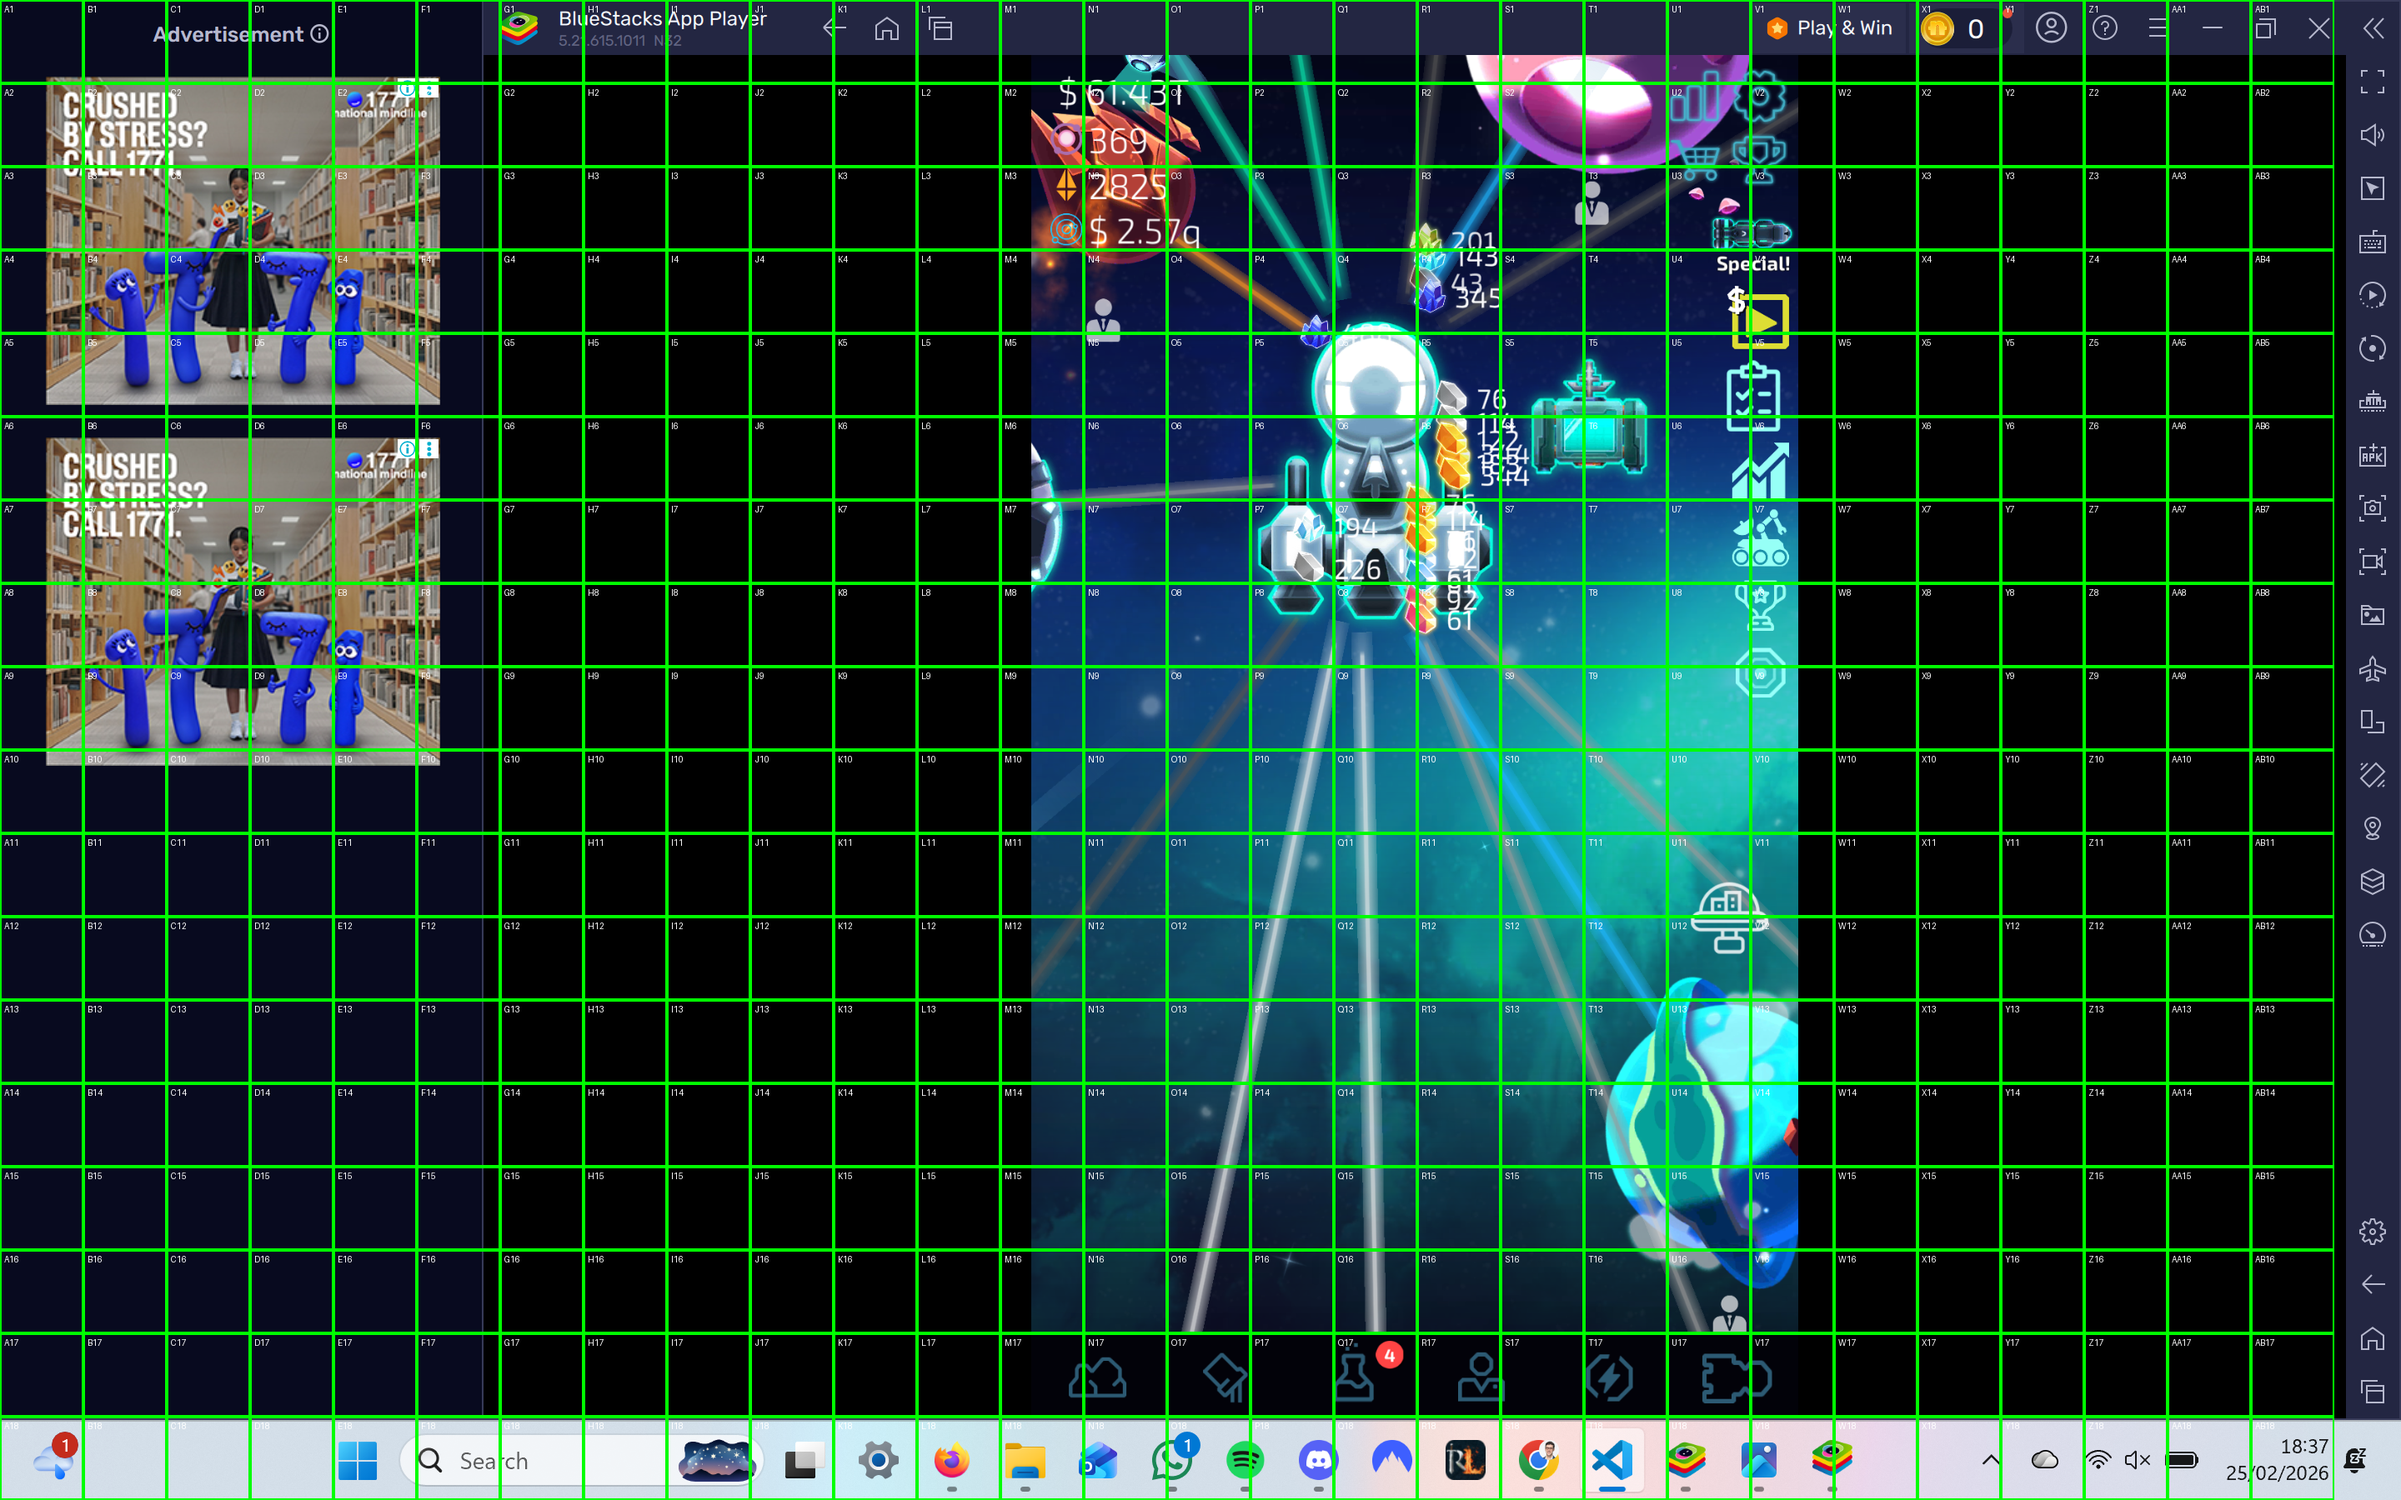
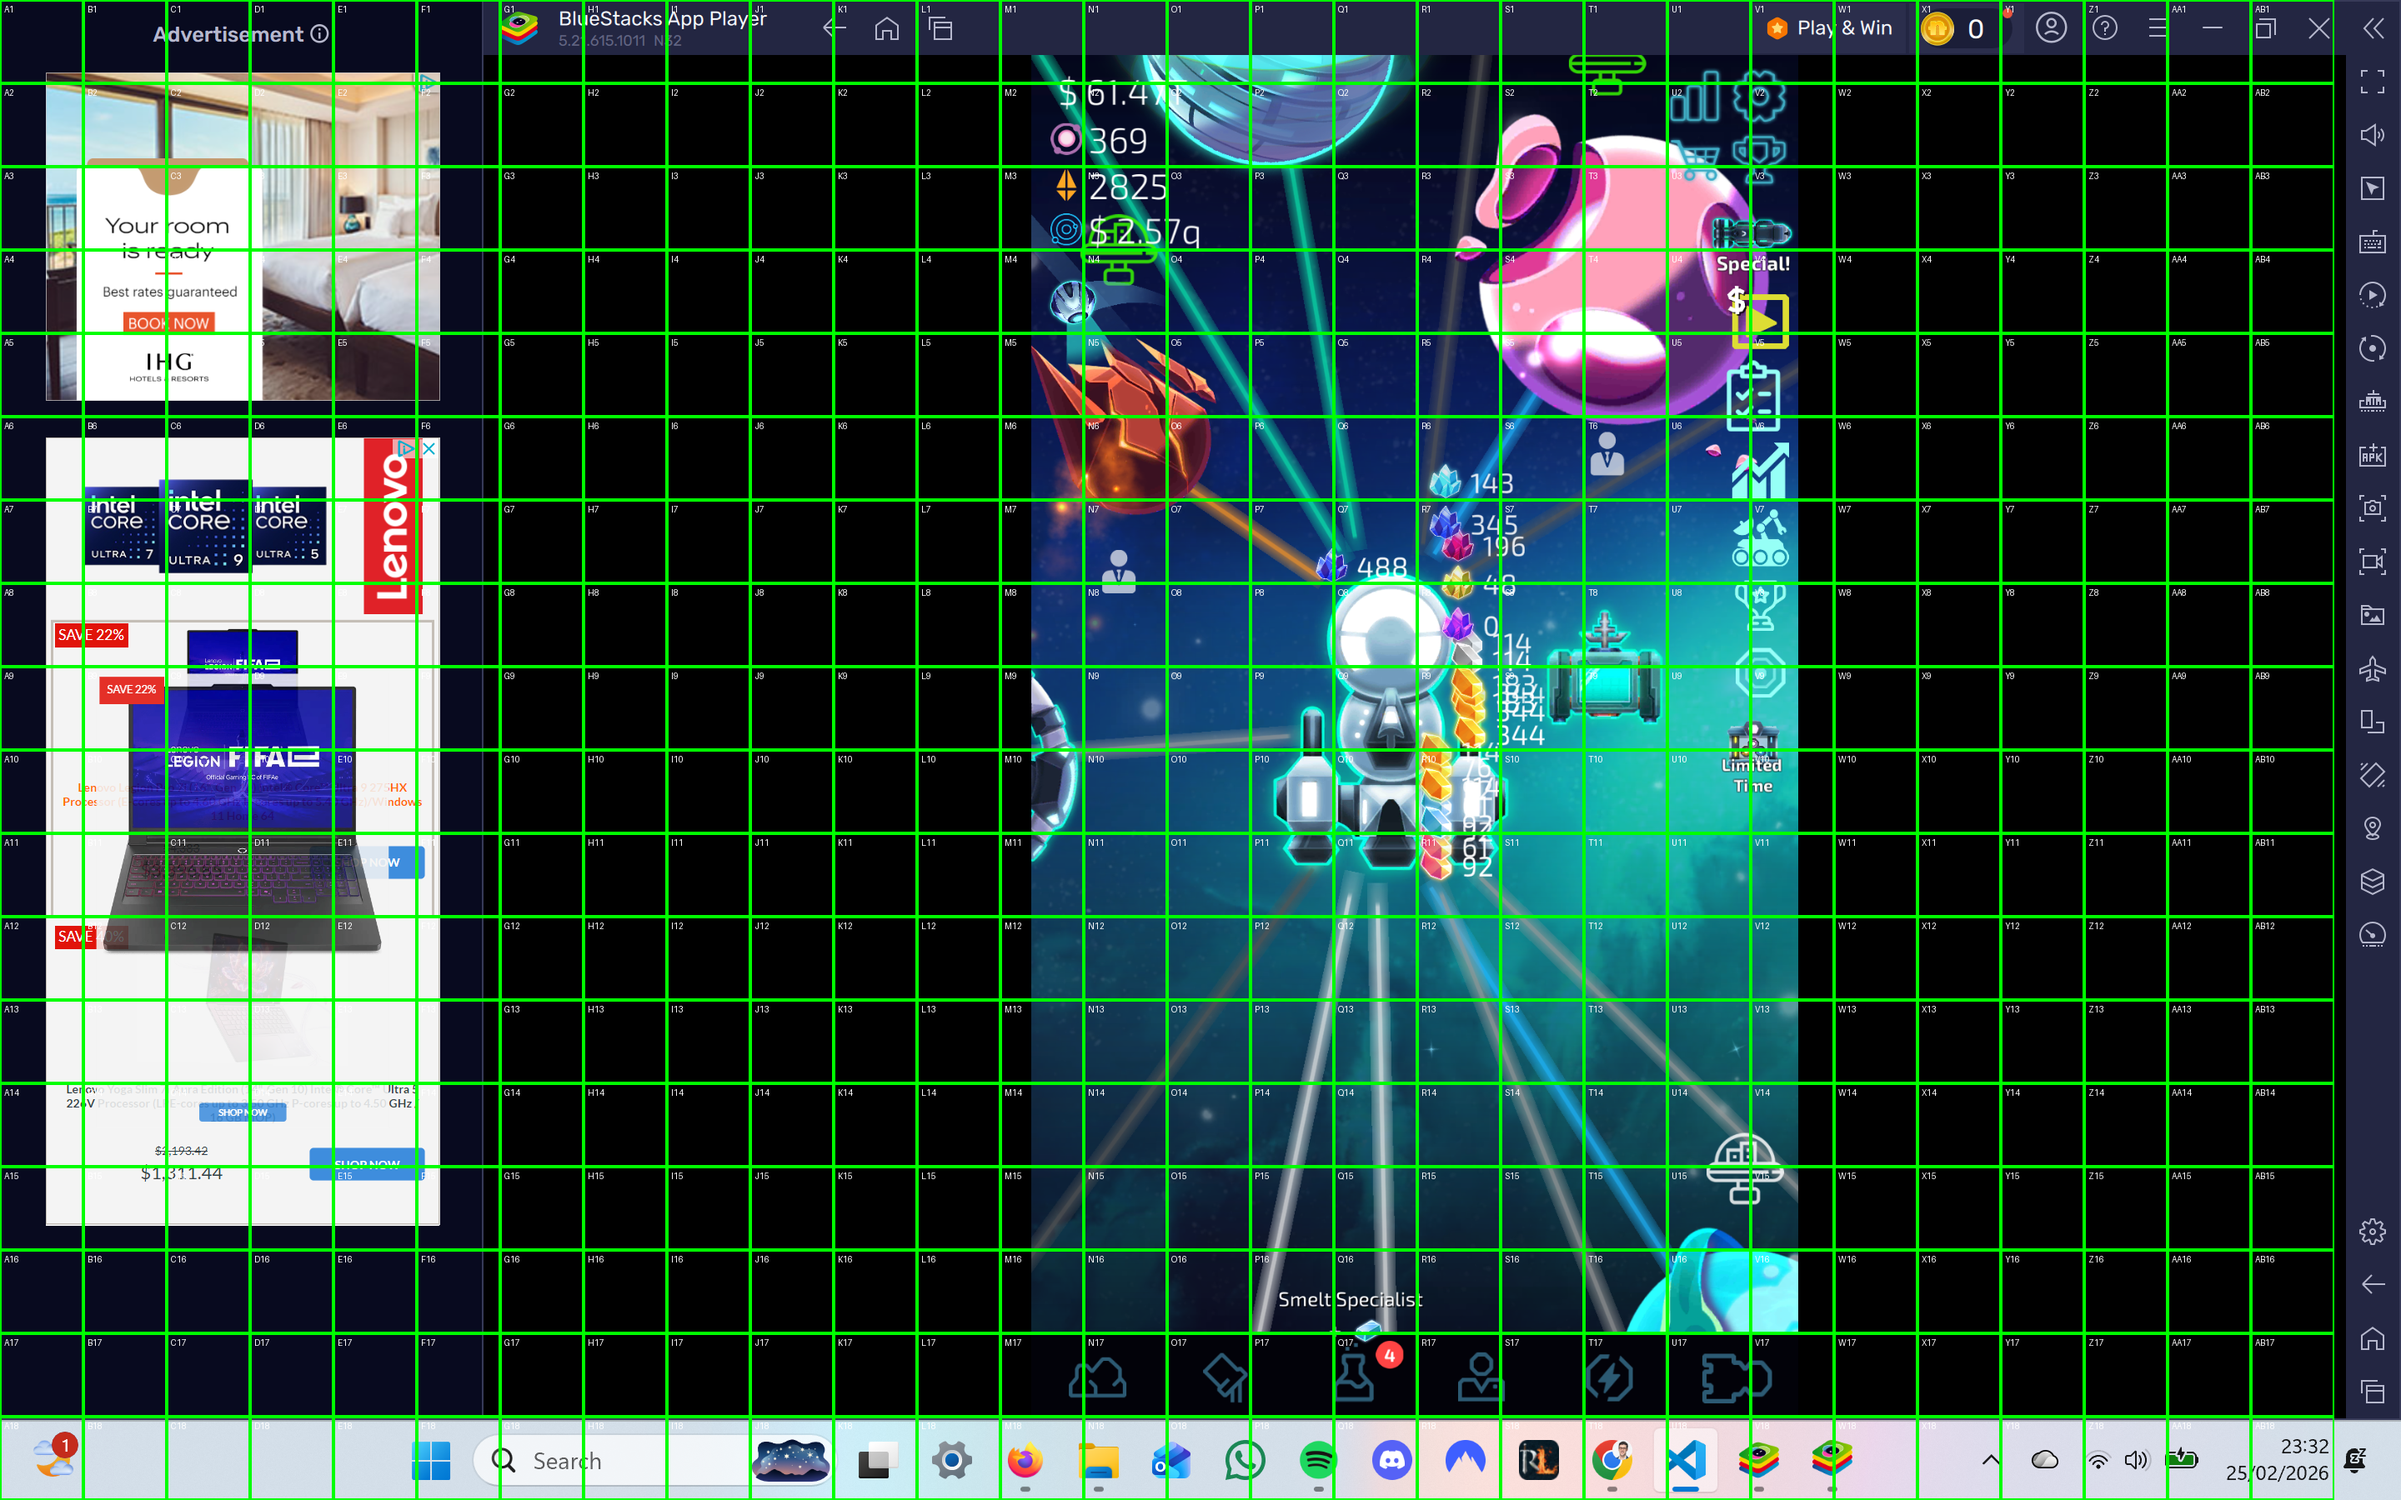
slight cleanup

diff --git a/bot_v2/utils.py b/bot_v2/utils.py
@@ -284,17 +284,34 @@ def open_bluestacks():
         print(f"Error opening BlueStacks: {e}")
 
 
-def zoom_to_max_then_down_one():
+def zoom_to_max_then_down_one(scroll_anchor=None):
     """
-    Zooms in to maximum by scrolling up 5 times with Ctrl held,
-    then zooms out by 1 level by scrolling down 1 time with Ctrl held.
+    Zoom sequence:
+    1) Hold modifier and scroll up 5 times
+    2) Hold modifier and scroll down 5 times
+
+    Args:
+        scroll_anchor: Optional tuple (x, y). If provided, mouse is moved to this
+            safe point before and during scrolling to avoid hovering interactive UI.
     """
-    time.sleep(2)  # Wait for BlueStacks to be fully loaded after F11
+    time.sleep(2)  # Wait for BlueStacks to be ready before zoom input
+
+    def _move_to_anchor():
+        if scroll_anchor is None:
+            return
+        try:
+            anchor_x, anchor_y = scroll_anchor
+            pyautogui.moveTo(anchor_x, anchor_y, duration=0.05)
+            log_input_event('mouse_move', '', '', f'x={anchor_x};y={anchor_y};phase=zoom_anchor')
+        except Exception:
+            pass
     
     # Zoom in to maximum (hold Ctrl, scroll up 5 times, then release Ctrl)
+    _move_to_anchor()
     pyautogui.keyDown(_ZOOM_MODIFIER_KEY)
     time.sleep(0.4)
     for i in range(5):
+        _move_to_anchor()
         pyautogui.scroll(100)  # Scroll up (positive value)
         log_input_event('mouse_scroll', '', '', f'amount=100;zoom_in_iter={i+1}')
         time.sleep(0.1)
@@ -305,15 +322,17 @@ def zoom_to_max_then_down_one():
     time.sleep(0.5)
     
     # Zoom out by a set amount (hold Ctrl, scroll down 5 times, then release Ctrl)
+    _move_to_anchor()
     pyautogui.keyDown(_ZOOM_MODIFIER_KEY)
     time.sleep(0.4)
     for i in range(5):
-        pyautogui.scroll(-50)  # Scroll down (negative value)
-        log_input_event('mouse_scroll', '', '', f'amount=-50;zoom_out_iter={i+1}')
+        _move_to_anchor()
+        pyautogui.scroll(-40)  # Scroll down (negative value)
+        log_input_event('mouse_scroll', '', '', f'amount=-40;zoom_out_iter={i+1}')
         time.sleep(0.1)
     pyautogui.keyUp(_ZOOM_MODIFIER_KEY)
     time.sleep(0.4)
-    print("Zoomed out by 1 level")
+    print("Zoomed out by configured amount")
 
 
 def get_currency_value_with_visualization(region=(0, 0, 1920, 150), display=True, debug_dir=None):

diff --git a/bot_v2/main.py b/bot_v2/main.py
@@ -36,7 +36,7 @@ def start_keypress_logger(log_path):
 if __name__ == "__main__":
     base_dir = os.path.dirname(os.path.abspath(__file__))
     key_log_path = os.path.join(base_dir, 'key_press_log.txt')
-    enable_focus_click = False  # Toggle this on/off for pre-zoom focus click
+    enable_focus_click = True  # Toggle this on/off for pre-zoom focus click
     set_input_log_path(key_log_path)
     key_log_hook = start_keypress_logger(key_log_path)
     print(f"Logging key events to: {key_log_path}")
@@ -48,7 +48,7 @@ if __name__ == "__main__":
     open_bluestacks()
 
     # Move mouse to a grid location before any scrolling/zoom occurs
-    grid_target = "O15"  # Change this to your target grid cell
+    grid_target = "U11"  # Change this to your target grid cell
     coords = get_grid_midpoint(grid_target)
     if coords:
         x, y = coords
@@ -67,8 +67,16 @@ if __name__ == "__main__":
     else:
         print(f"Could not find grid coordinates for {grid_target}")
 
+    # Choose a safe area for scroll-based zooming (avoid interactive UI elements)
+    zoom_anchor_target = "U11"  # Set this to a non-interactive grid cell
+    zoom_anchor_coords = get_grid_midpoint(zoom_anchor_target)
+    if zoom_anchor_coords:
+        print(f"Using zoom anchor {zoom_anchor_target} at {zoom_anchor_coords}")
+    else:
+        print(f"Could not find zoom anchor coordinates for {zoom_anchor_target}; using current mouse position")
+
     # Continue with zooming
-    zoom_to_max_then_down_one()
+    zoom_to_max_then_down_one(scroll_anchor=zoom_anchor_coords)
 
     # Currency monitor region bounded by I1..P2
     currency_region = get_grid_region("I1", "P2")

diff --git a/bot_v2/boxer.py b/bot_v2/boxer.py
@@ -1,7 +1,7 @@
 """Draw a labeled grid overlay on the screen to identify regions.
 
-This version uses tkinter to create a true transparent, click-through overlay
-that stays on top of other applications (including BlueStacks).
+This tool captures a static screenshot of the configured screen region,
+draws a labeled grid on top, and displays it in a topmost window.
 
 Usage:
     python boxer.py
